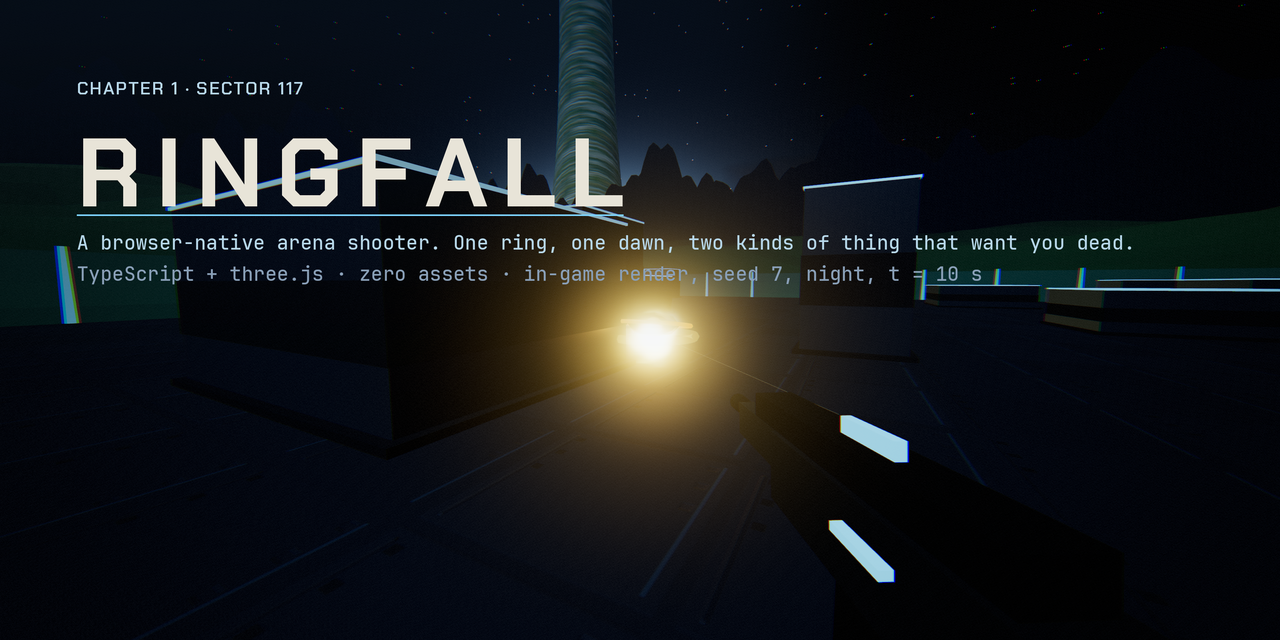
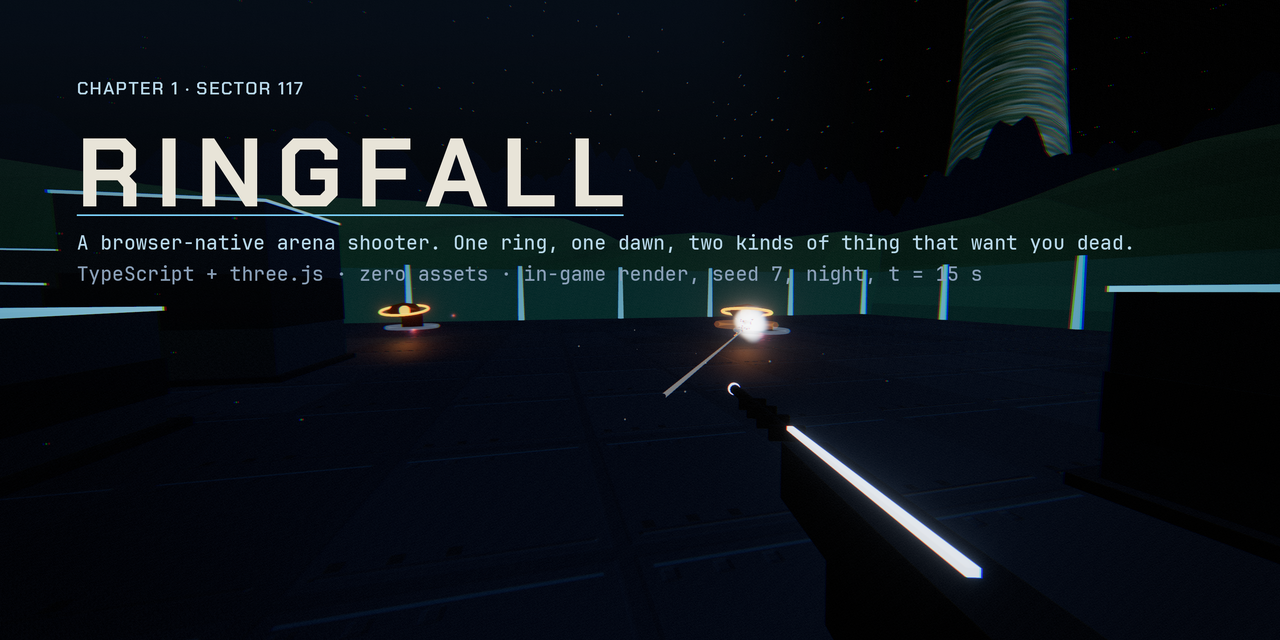
docs(brand): re-render the hero, strip and loop from the fixed renderer
Re-capture the banner, social card, README strip and the six-second loop
from main at 8195bba, after the bloom prefilter, flare, explosion, dust and
weapon-flash changes, with the capture recipe in docs/brand.md unchanged.
The simulation moved as well as the renderer, so seed 7's timestamps no
longer land on the same moments (the run is won by 89.6 s; night t = 10 s
had no kill in frame): the moments were re-found from the core's event log
and the README captions, the brand.md table and the hero file name carry
the new times (hero night t = 15.15 s, dawn t = 78.5 s, night t = 24.15 s,
dusk t = 45 s, loop t = 4 to 10 s). An old-versus-new sheet and the new
frames are filed under docs/journey/images/1850-hero-* with a journey entry.

Claude-Session: https://claude.ai/code/session_01SP6PVCPBAtyvFxV3tjFZJy

diff --git a/README.md b/README.md
@@ -1,4 +1,4 @@
-<p align="center"><img src="docs/banner.png" alt="Ringfall: an in-game render at night, seed 7, t = 10 s, with the wordmark" width="100%"></p>
+<p align="center"><img src="docs/banner.png" alt="Ringfall: an in-game render at night, seed 7, t = 15 s, with the wordmark" width="100%"></p>
 
 # Ringfall
 
@@ -7,7 +7,7 @@ want you dead. TypeScript + three.js, zero assets. Built in four hours on
 2026-10-21 by one person coaching thirty-three cloud agents; the
 [journey](docs/journey/README.md) has the clock.
 
-<p align="center"><sub>The banner is the game itself: seed 7 at night, t = 10 s, 3840x1600 with the post stack on. Recipe in <a href="docs/brand.md#hero-and-social">docs/brand.md</a>.</sub></p>
+<p align="center"><sub>The banner is the game itself: seed 7 at night, t = 15 s, 3840x1600 with the post stack on. Recipe in <a href="docs/brand.md#hero-and-social">docs/brand.md</a>.</sub></p>
 
 **[Play now](https://ringfall.alexhowells.com)** (deploys from `main`; `agh.github.io/ringfall` until DNS is set; neither is live as of 2026-10-21).
 
@@ -43,12 +43,12 @@ Requires a browser with WebGL 2 and pointer lock.
 
 | Dawn, wave 5 | Night, wave 2 | Dusk, wave 3 |
 | :---: | :---: | :---: |
-| ![Dawn: the sun flares behind the ring over the cover slabs](docs/journey/images/1740-hero-dawn-s7-t95.jpg) | ![Night: the beam weapon in hand, stars and trims](docs/journey/images/1740-hero-night-s7-t18.jpg) | ![Dusk: the laser in hand against a rose horizon](docs/journey/images/1740-hero-dusk-s7-t45.jpg) |
-| seed 7, t = 95 s, `atmo=dawn` | seed 7, t = 18 s, `atmo=night` | seed 7, t = 45 s, `atmo=dusk` |
+| ![Dawn: the sun rises behind the ridge, laser hit in wave 5](docs/journey/images/1850-hero-dawn-s7-t78.jpg) | ![Night: a skimmer in the laser sights, stars and trims](docs/journey/images/1850-hero-night-s7-t24.jpg) | ![Dusk: the laser in hand against a rose horizon](docs/journey/images/1850-hero-dusk-s7-t45.jpg) |
+| seed 7, t = 78.5 s, `atmo=dawn` | seed 7, t = 24.15 s, `atmo=night` | seed 7, t = 45 s, `atmo=dusk` |
 
 Every frame above is a headless render of the shipped build (`?record&bot&seed=7&nohud`), not an illustration.
 
-<p align="center"><img src="docs/hero/hero-loop.webp" alt="Six seconds of seed 7 at night, t = 8 to 14 s, the skimmer kill at 10 s" width="100%"><br><sub>Six seconds at 24 fps, seed 7, night, t = 8 to 14 s, from the same capture hook.</sub></p>
+<p align="center"><img src="docs/hero/hero-loop.webp" alt="Six seconds of seed 7 at night, t = 4 to 10 s, three skimmer kills" width="100%"><br><sub>Six seconds at 24 fps, seed 7, night, t = 4 to 10 s, from the same capture hook.</sub></p>
 
 ## How it works
 

diff --git a/docs/brand.md b/docs/brand.md
@@ -293,14 +293,19 @@ pin the atmosphere (`src/render/environment.ts`). Call
 so the last render sees a real 0.1 s delta for its effects, and take a PNG
 screenshot. One 4K frame costs about 30 s on software GL.
 
-**Chosen frames** (all seed 7, 3840x1600, post stack on):
+**Chosen frames** (all seed 7, 3840x1600, post stack on; current files captured
+from commit `8195bba` at 18:50 UTC on 2026-10-21, after the bloom prefilter,
+flare, explosion, dust and weapon-flash changes; the simulation changed too, so
+the moments below were re-found from the core's event log for seed 7, not
+carried over by timestamp):
 
 | Use | Moment | URL flags |
 | --- | ------ | --------- |
-| Hero, banner, social card | night, t = 10 s, wave 1 cleared, a skimmer kill glowing between the slabs | `atmo=night` |
-| Strip: dawn | t = 95 s, wave 5, the sun flares behind the ring, minigun in hand | `atmo=dawn` |
-| Strip: night | t = 18 s, wave 2, the beam in hand | `atmo=night` |
-| Strip: dusk | t = 45 s, wave 3, the laser against a rose horizon | `atmo=dusk` |
+| Hero, banner, social card | night, t = 15.15 s, wave 2, the laser's first kill 0.07 s after the hit, the ring top right | `atmo=night` |
+| Strip: dawn | t = 78.5 s, wave 5, the sun's aureole over the ridge, a laser hit mid-frame | `atmo=dawn` |
+| Strip: night | t = 24.15 s, wave 2, a skimmer's Rose ring in the laser sights | `atmo=night` |
+| Strip: dusk | t = 45 s, wave 3 cleared, the minigun and a strider burst against a rose horizon | `atmo=dusk` |
+| Loop | night, t = 4 to 10 s, three wave 1 kills, 24 fps, 960x400 | `atmo=night` |
 
 **Lockup.** Top-left, on a safe margin of 6% of the width on both axes. From
 the top: eyebrow "CHAPTER 1 · SECTOR 117" in Chakra Petch 600 at 1.2% of
@@ -314,8 +319,10 @@ else is added to the frame.
 
 **Crops and exports.** The banner is the full 2.4:1 frame: `docs/banner.png`
 at 1920x800 and `docs/hero/banner-2x.webp` at 3840x1600. The raw hero frame
-without type is `docs/hero/hero-night-seed7-t10.webp`. The social card is a
+without type is `docs/hero/hero-night-seed7-t15.webp`. The social card is a
 centered 2:1 crop of the same frame with the lockup re-set at 1.15x,
 exported to `docs/social-card.png` at 1280x640 (GitHub's repository
 preview size). Journey copies of every candidate and the contact sheet live
-under `docs/journey/images/1740-hero-*`.
+under `docs/journey/images/1740-hero-*` (17:40 build) and
+`docs/journey/images/1850-hero-*` (current); the old-versus-new sheet from
+the re-render is `docs/journey/images/1850-hero-rerender.jpg`.

diff --git a/docs/journey/README.md b/docs/journey/README.md
@@ -847,6 +847,21 @@ request.
 
 ![A drop pod with its Rose band falling toward the spawn ring under the ring arc](images/1800-dropship.jpg)
 
+## 18:50 The hero, re-rendered on the fixed renderer
+
+The banner, social card, README strip and the six-second loop were
+re-rendered from `8195bba`, after the bloom prefilter (#61), the second
+flare cut (#77), the explosion rework (#60), the dust and night pass (#90)
+and the weapon flash resizing (#67). The first pass kept the 17:40
+timestamps and showed that the simulation had moved too: seed 7 is a
+different game now (won at 89.6 s), so night t = 10 s had no kill in frame
+and dawn t = 95 s was post-win. The moments were re-found from the core's
+event log instead: hero at night t = 15.15 s (the laser's first kill), dawn
+t = 78.5 s, night t = 24.15 s, dusk t = 45 s, loop t = 4 to 10 s. Old
+versus new side by side: `images/1850-hero-rerender.jpg`.
+
+![Old versus new hero frames](images/1850-hero-rerender.jpg)
+
 ## Playtest reviews
 
 Each row is a human or agent watching the game play, not a screenshot.
